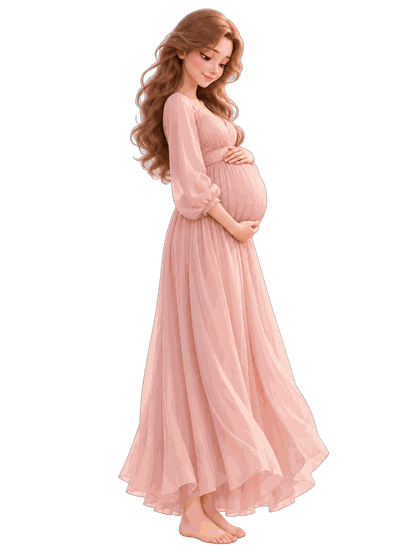
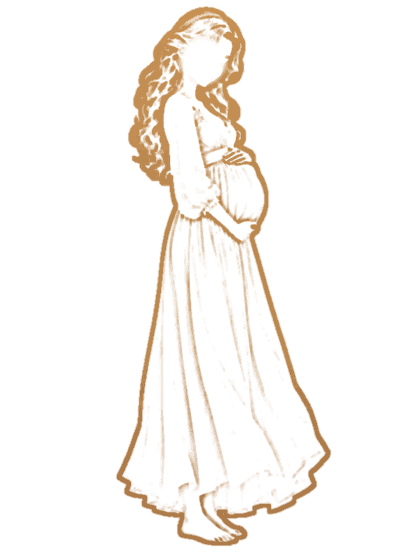
« Notre histoire » : personnages en croquis au fil doré, sans visage (seuls le contour de la tête et les cheveux)
Claude-Session: https://claude.ai/code/session_018pzQFEZbDCcJfCDjKRB5Sk

Changed region(s): [[0.2786, 0.0, 0.8048, 1.0]]

diff --git a/src/features/story/storyImages.ts b/src/features/story/storyImages.ts
@@ -1,5 +1,5 @@
 /**
- * Personnages de « Notre histoire » (ElevenLabs, GPT Image 2.5, 26/10/2026) : la même femme que dans la vidéo
+ * Personnages de « Notre histoire » : croquis au fil doré (comme le logo), tirés des images ElevenLabs du 26/10/2026 : la même femme que dans la vidéo
  * de fond, à chaque étape de STORY_CHAPTERS, détourée (fond transparent) pour se poser sur le ciel de l'application.
  */
 /* eslint-disable @typescript-eslint/no-require-imports */
